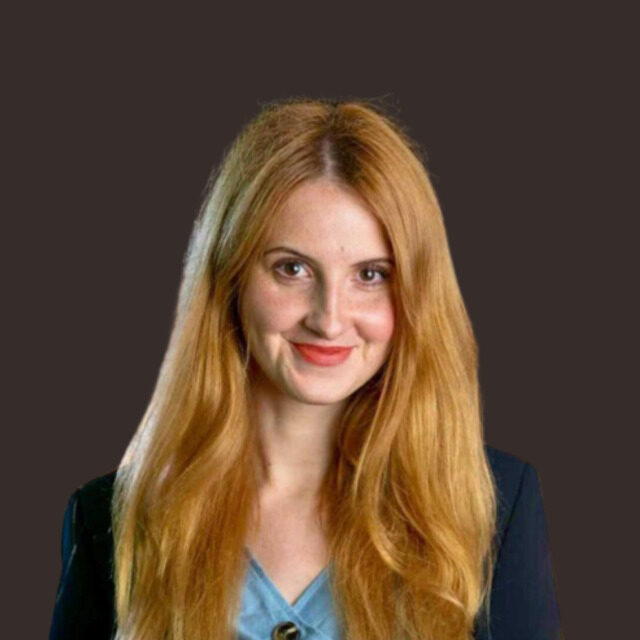
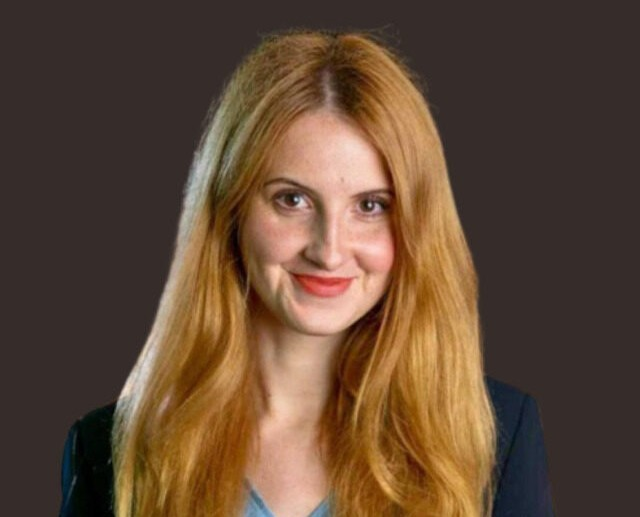
Update the team page with the new team members

Changed region(s): [[0.0938, 0.0619, 0.8438, 1.0], [0.0625, 0.8975, 0.125, 1.0], [0.3438, 0.4952, 0.375, 0.5261]]

diff --git a/team.html b/team.html
@@ -69,10 +69,9 @@
   <!-- ======= Hero Section ======= -->
   <section id="heroteam">
     <div class="heroteam-container" data-aos="fade-up" data-aos-delay="150">
-      <h1>Our Team</h1>
-      <h2>We are glad to have talented individuals from various fields who deepen and grow our impact.</h2>
+      <!-- <h1>Our Team</h1> -->
       <div class="d-flex">
-        <a href="#main" class="btn-get-started scrollto" style="text-decoration: none;">View the Team</a>
+        <a href="#main" class="btn-get-started scrollto" style="text-decoration: none;">View our Team</a>
         </div>
     </div>
   </section><!-- End Hero -->
@@ -635,7 +634,7 @@
           
           <div class="col-md-3 col-sm-3 col-xs-12">
             <div class="member" data-aos="fade-up" data-aos-delay="100">
-              <div class="pic"><img src="assets/img/team/team-1.png" class="img-fluid" alt=""></div>
+              <div class="pic"><img src="assets/img/team/1 (1).png" class="img-fluid" alt=""></div>
               <div class="member-info">
                 <a data-bs-toggle="modal" data-bs-target="#myModalDavid" href="#"><h4>David Ogiga</h4></a>
                 <span>Co-founder/Director</span>
@@ -648,7 +647,7 @@
 
           <div class="col-md-3 col-sm-3 col-xs-12" data-aos="fade-up" data-aos-delay="200">
             <div class="member">
-              <div class="pic"><img src="assets/img/team/team-2.jpg" class="img-fluid" alt=""></div>
+              <div class="pic"><img src="assets/img/team/team-2.png" class="img-fluid" alt=""></div>
               <div class="member-info">
                 <a data-bs-toggle="modal" data-bs-target="#myModalIvana" href="#"><h4>Ivana Ulicna</h4></a>
                 <span>Program Manager/ Board Member</span>
@@ -661,7 +660,7 @@
 
           <div class="col-md-3 col-sm-3 col-xs-12" data-aos="fade-up" data-aos-delay="300">
             <div class="member">
-              <div class="pic"><img src="assets/img/team/team-3.jpg" class="img-fluid" alt=""></div>
+              <div class="pic"><img src="assets/img/team/3.png" class="img-fluid" alt=""></div>
               <div class="member-info">
                 <a data-bs-toggle="modal" data-bs-target="#myModalAlvin" href="#"><h4>Alvin Chole</h4></a>
                 <span>Head of Programs</span>
@@ -674,7 +673,7 @@
 
           <div class="col-md-3 col-sm-3 col-xs-12">
             <div class="member" data-aos="fade-up" data-aos-delay="100">
-              <div class="pic"><img src="assets/img/team/team-4.png" class="img-fluid" alt=""></div>
+              <div class="pic"><img src="assets/img/team/4.png" class="img-fluid" alt=""></div>
               <div class="member-info">
                 <a data-bs-toggle="modal" data-bs-target="#myModalKen" href="#"><h4>Kenneth Njihia</h4></a>
                 <span>Head of Innovation</span>
@@ -691,10 +690,10 @@
 
           <div class="col-md-3 col-sm-3 col-xs-12">
             <div class="member" data-aos="fade-up" data-aos-delay="100">
-              <div class="pic"><img src="assets/img/team/team-5.png" class="img-fluid" alt=""></div>
+              <div class="pic"><img src="assets/img/team/5.png" class="img-fluid" alt=""></div>
               <div class="member-info">
                 <a data-bs-toggle="modal" data-bs-target="#myModalGrace" href="#"><h4>Grace Aluora</h4></a>
-                <span>Finance & Admin Manager</span>
+                <span>Head of Finance and Administration</span>
                 <div class="social">
                   <a href="https://www.linkedin.com/in/grace-aluora-b8762014b/" target="_blank"><i class="bi bi-linkedin"></i></a>
                 </div>
@@ -702,14 +701,14 @@
             </div>
           </div>
 
-          <div class="col-md-3 col-sm-3 col-xs-12" data-aos="fade-up" data-aos-delay="200">
-            <div class="member">
-              <div class="pic"><img src="assets/img/team/team-6.jpg" class="img-fluid" alt=""></div>
+          <div class="col-md-3 col-sm-3 col-xs-12">
+            <div class="member" data-aos="fade-up" data-aos-delay="100">
+              <div class="pic"><img src="assets/img/team/10.png" class="img-fluid" alt=""></div>
               <div class="member-info">
-                <a data-bs-toggle="modal" data-bs-target="#myModalMejumaa" href="#"><h4>Mejumaa Bakari</h4></a>
-                <span>Finance & Admin Assistant</span>
+                <a data-bs-toggle="modal" data-bs-target="#myModalBeth" href="#"><h4>Beth Mugwe</h4></a>
+                <span>Human Resources Manager</span>
                 <div class="social">
-                  <a href="https://www.linkedin.com/in/mejumaa-bakari/" target="_blank"><i class="bi bi-linkedin"></i></a>
+                  <a href="#" target="_blank"><i class="bi bi-linkedin"></i></a>
                 </div>
               </div>
             </div>
@@ -717,10 +716,10 @@
 
           <div class="col-md-3 col-sm-3 col-xs-12" data-aos="fade-up" data-aos-delay="300">
             <div class="member">
-              <div class="pic"><img src="assets/img/team/Lucia.jpeg" class="img-fluid" alt=""></div>
+              <div class="pic"><img src="assets/img/team/6.png" class="img-fluid" alt=""></div>
               <div class="member-info">
                 <a data-bs-toggle="modal" data-bs-target="#myModalLucia" href="#"><h4>Lucia Muthoni</h4></a>
-                <span>Programs Officer</span>
+                <span>Senior Programs Officer</span>
                 <div class="social">
                   <a href="https://www.linkedin.com/in/lucia-muthoni-5a6056b6/" target="_blank"><i class="bi bi-linkedin"></i></a>
                 </div>
@@ -730,54 +729,70 @@
 
           <div class="col-md-3 col-sm-3 col-xs-12">
             <div class="member" data-aos="fade-up" data-aos-delay="100">
-              <div class="pic"><img src="assets/img/team/Shadrack Kiprotich1.jpeg" class="img-fluid" alt=""></div>
-              <div class="member-info">
-                <a data-bs-toggle="modal" data-bs-target="#myModalShadrack" href="#"><h4>Shadrack Lang'at</h4></a>
-                <span>Technical Lead</span>
-                <div class="social">
-                  <a href="https://www.linkedin.com/in/shadrack-kiprotich/" target="_blank"><i class="bi bi-linkedin"></i></a>
-                </div>
-              </div>
-            </div>
-          </div>
-        </div>
-
-
-        <div class="row">
-
-          
-          <div class="col-md-3 col-sm-3 col-xs-12">
-            <div class="member" data-aos="fade-up" data-aos-delay="100">
-              <div class="pic"><img src="assets/img/team/Luke.jpg" class="img-fluid" alt=""></div>
-              <div class="member-info">
-                <a data-bs-toggle="modal" data-bs-target="#myModalLuke" href="#"><h4>Luke Kamunyu</h4></a>
-                <span>Technical Assistant</span>
-                <div class="social">
-                  <a href="https://www.linkedin.com/in/luke-samuel-kibiku/" target="_blank"><i class="bi bi-linkedin"></i></a>
-                </div>
-              </div>
-            </div>
-          </div>
-
-          <div class="col-md-3 col-sm-3 col-xs-12">
-            <div class="member" data-aos="fade-up" data-aos-delay="100">
-              <div class="pic"><img src="assets/img/team/Emmanuel Madanga1.jpg" class="img-fluid" alt=""></div>
+              <div class="pic"><img src="assets/img/team/11.png" class="img-fluid" alt=""></div>
               <div class="member-info">
                 <a data-bs-toggle="modal" data-bs-target="#myModalEmmanuel" href="#"><h4>Emmanuel Madanga</h4></a>
-                <span>Data Management Officer</span>
+                <span>Data Analyst</span>
                 <div class="social">
                   <a href="https://www.linkedin.com/in/emmanuel-madanga-a02014235/" target="_blank"><i class="bi bi-linkedin"></i></a>
                 </div>
               </div>
             </div>
           </div>
+
+          
+
+        </div>
+
+
+        <div class="row">
+
+          <div class="col-md-3 col-sm-3 col-xs-12">
+            <div class="member" data-aos="fade-up" data-aos-delay="100">
+              <div class="pic"><img src="assets/img/team/13.png" class="img-fluid" alt=""></div>
+              <div class="member-info">
+                <a data-bs-toggle="modal" data-bs-target="#myModalSamilla" href="#"><h4>Samilla Okumu</h4></a>
+                <span>Head of Communications</span>
+                <div class="social">
+                  <a href="#" target="_blank"><i class="bi bi-linkedin"></i></a>
+                </div>
+              </div>
+            </div>
+          </div>
+
+          <div class="col-md-3 col-sm-3 col-xs-12">
+            <div class="member" data-aos="fade-up" data-aos-delay="100">
+              <div class="pic"><img src="assets/img/team/12.png" class="img-fluid" alt=""></div>
+              <div class="member-info">
+                <a data-bs-toggle="modal" data-bs-target="#myModalEli" href="#"><h4>Eli Dhidha</h4></a>
+                <span>UI/UX Designer</span>
+                <div class="social">
+                  <a href="https://www.linkedin.com/in/eli-dhidha-0b0201147/" target="_blank"><i class="bi bi-linkedin"></i></a>
+                </div>
+              </div>
+            </div>
+          </div>
+
+
+          <div class="col-md-3 col-sm-3 col-xs-12" data-aos="fade-up" data-aos-delay="200">
+            <div class="member">
+              <div class="pic"><img src="assets/img/team/15.png" class="img-fluid" alt=""></div>
+              <div class="member-info">
+                <a data-bs-toggle="modal" data-bs-target="#myModalMejumaa" href="#"><h4>Mejumaa Bakari</h4></a>
+                <span>Finance & Admin Assistant</span>
+                <div class="social">
+                  <a href="https://www.linkedin.com/in/mejumaa-bakari/" target="_blank"><i class="bi bi-linkedin"></i></a>
+                </div>
+              </div>
+            </div>
+          </div>
           
           <div class="col-md-3 col-sm-3 col-xs-12">
             <div class="member" data-aos="fade-up" data-aos-delay="100">
-              <div class="pic"><img src="assets/img/team/Alvina.jpeg" class="img-fluid" alt=""></div>
+              <div class="pic"><img src="assets/img/team/7.png" class="img-fluid" alt=""></div>
               <div class="member-info">
                 <a data-bs-toggle="modal" data-bs-target="#myModalAlvinah" href="#"><h4>Alvinah Mwithi</h4></a>
-                <span>Communications Officer / Program Assistant</span>
+                <span>Programs Officer</span>
                 <div class="social">
                   <a href="https://www.linkedin.com/in/alvinah-mwithi-90249b272/" target="_blank"><i class="bi bi-linkedin"></i></a>
                 </div>
@@ -785,9 +800,41 @@
             </div>
           </div>
 
+        </div>
+
+
+        <div class="row">
+
           <div class="col-md-3 col-sm-3 col-xs-12">
             <div class="member" data-aos="fade-up" data-aos-delay="100">
-              <div class="pic"><img src="assets/img/team/Pam.jpg" class="img-fluid" alt=""></div>
+              <div class="pic"><img src="assets/img/team/8.png" class="img-fluid" alt=""></div>
+              <div class="member-info">
+                <a data-bs-toggle="modal" data-bs-target="#myModalAnnabel" href="#"><h4>Annabel Blessing</h4></a>
+                <span>Data/Web Developer</span>
+                <div class="social">
+                  <a href="https://www.linkedin.com/in/annabel-blessing-8a42a72b4/" target="_blank"><i class="bi bi-linkedin"></i></a>
+                </div>
+              </div>
+            </div>
+          </div>
+
+
+          <div class="col-md-3 col-sm-3 col-xs-12" data-aos="fade-up" data-aos-delay="200">
+            <div class="member">
+              <div class="pic"><img src="assets/img/team/14.png" class="img-fluid" alt=""></div>
+              <div class="member-info">
+                <a data-bs-toggle="modal" data-bs-target="#myModalVeronica" href="#"><h4>Veronica Machocho</h4></a>
+                <span>Programs Assistant</span>
+                <div class="social">
+                  <a href="https://www.linkedin.com/in/machocho-veronica-6a7697337/" target="_blank"><i class="bi bi-linkedin"></i></a>
+                </div>
+              </div>
+            </div>
+          </div>
+
+          <div class="col-md-3 col-sm-3 col-xs-12">
+            <div class="member" data-aos="fade-up" data-aos-delay="100">
+              <div class="pic"><img src="assets/img/team/9.png" class="img-fluid" alt=""></div>
               <div class="member-info">
                 <a data-bs-toggle="modal" data-bs-target="#myModalPam" href="#"><h4>Pamphilia Adhiambo</h4></a>
                 <span>Office Assistant</span>
@@ -797,6 +844,8 @@
               </div>
             </div>
           </div>
+
+          
         </div>
 
 

diff --git a/assets/css/style.css b/assets/css/style.css
@@ -2677,7 +2677,7 @@ h6 {
  {
   width: 100%;
   height: 100vh;
-  background: url("../img/about-us.jpg") top center;
+  background: url("../img/Sotehub-team.jpg") top center;
   background-size: cover;
   position: relative;
   padding: 0;
